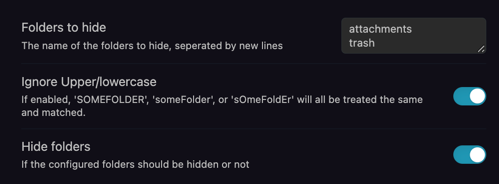
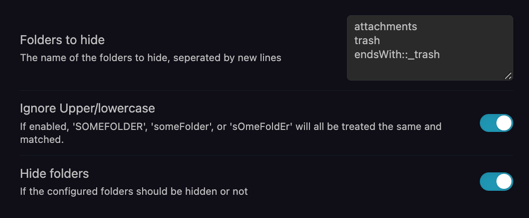
docs: add ::endsWith documentation

diff --git a/main.ts b/main.ts
@@ -117,9 +117,9 @@ class HideFoldersPluginSettingTab extends PluginSettingTab {
 
     new Setting(containerEl)
       .setName("Folders to hide")
-      .setDesc("The name of the folders to hide, seperated by new lines")
+      .setDesc("The names of the folders to hide, one per line. Either exact folder-names or endsWith::FOLDERSUFFIX")
       .addTextArea(text => text
-        .setPlaceholder("attachments")
+        .setPlaceholder("attachments\nendsWith::_attachments")
         .setValue(this.plugin.settings.attachmentFolderNames.join("\n"))
         .onChange(async (value) => {
           this.plugin.settings.attachmentFolderNames = value.split("\n");

diff --git a/README.md b/README.md
@@ -10,6 +10,8 @@ Search in the community plugins menu of Obsidian for "Hide Folders" look for the
 
 ## Configuration
 Enter the list of folder names to hide in the settings menu, **one folder per line**.
+You can either enter exact folder-names or prefix the line with `endsWith::` if you want to filter-out all folders ending with a specific text.  
+(e.g. `endsWith::_trash`)
 
 ![Screenshot of the Plugin Settings Screen in Obsidian.md](./docs/assets/settings-screenshot.png)  
 
